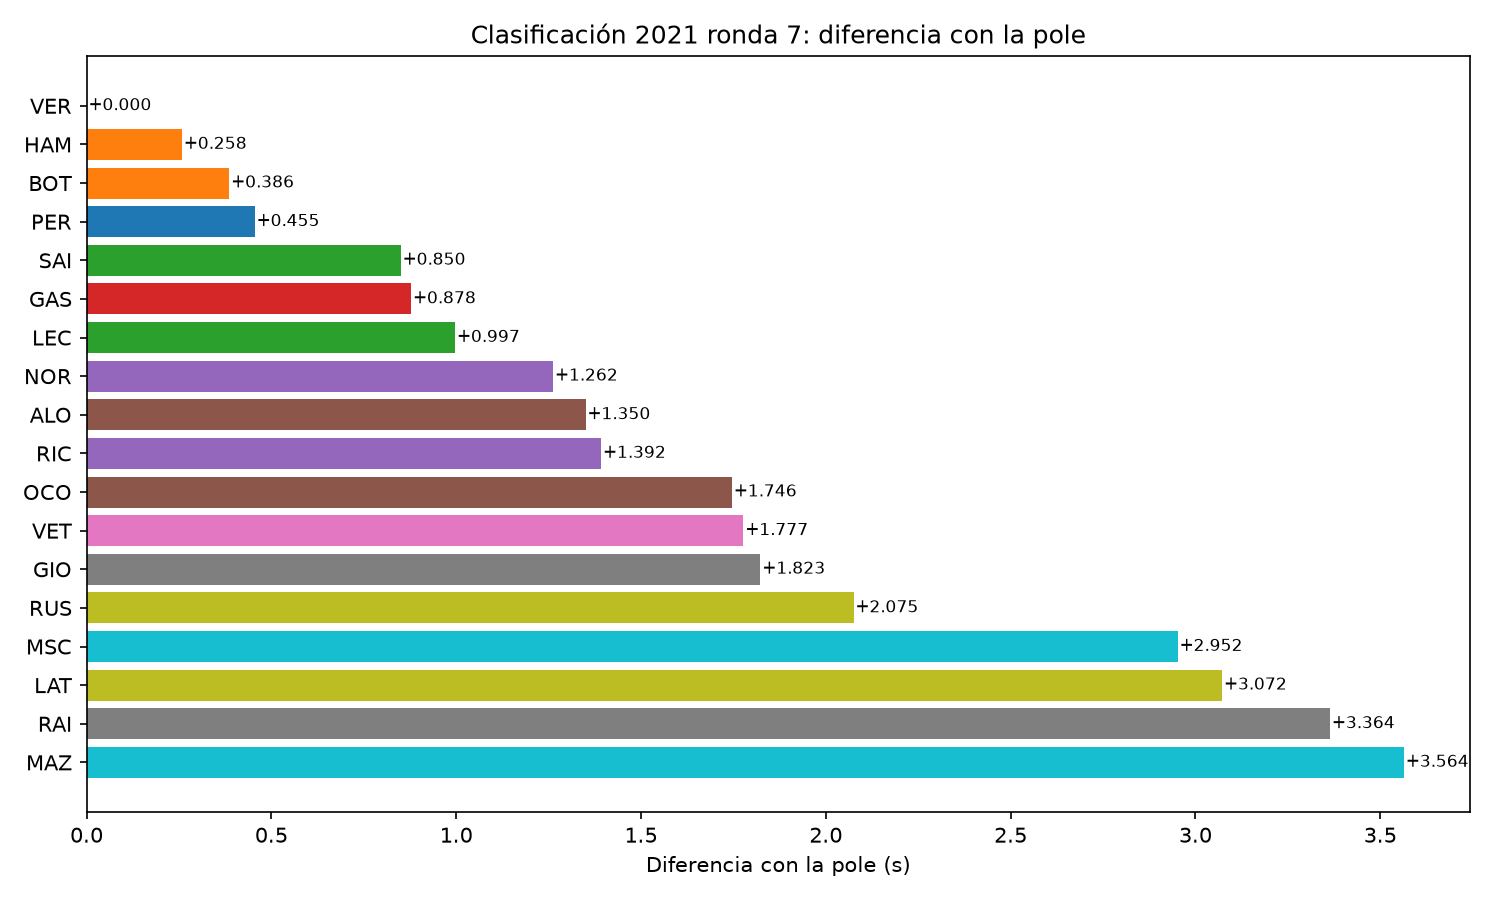
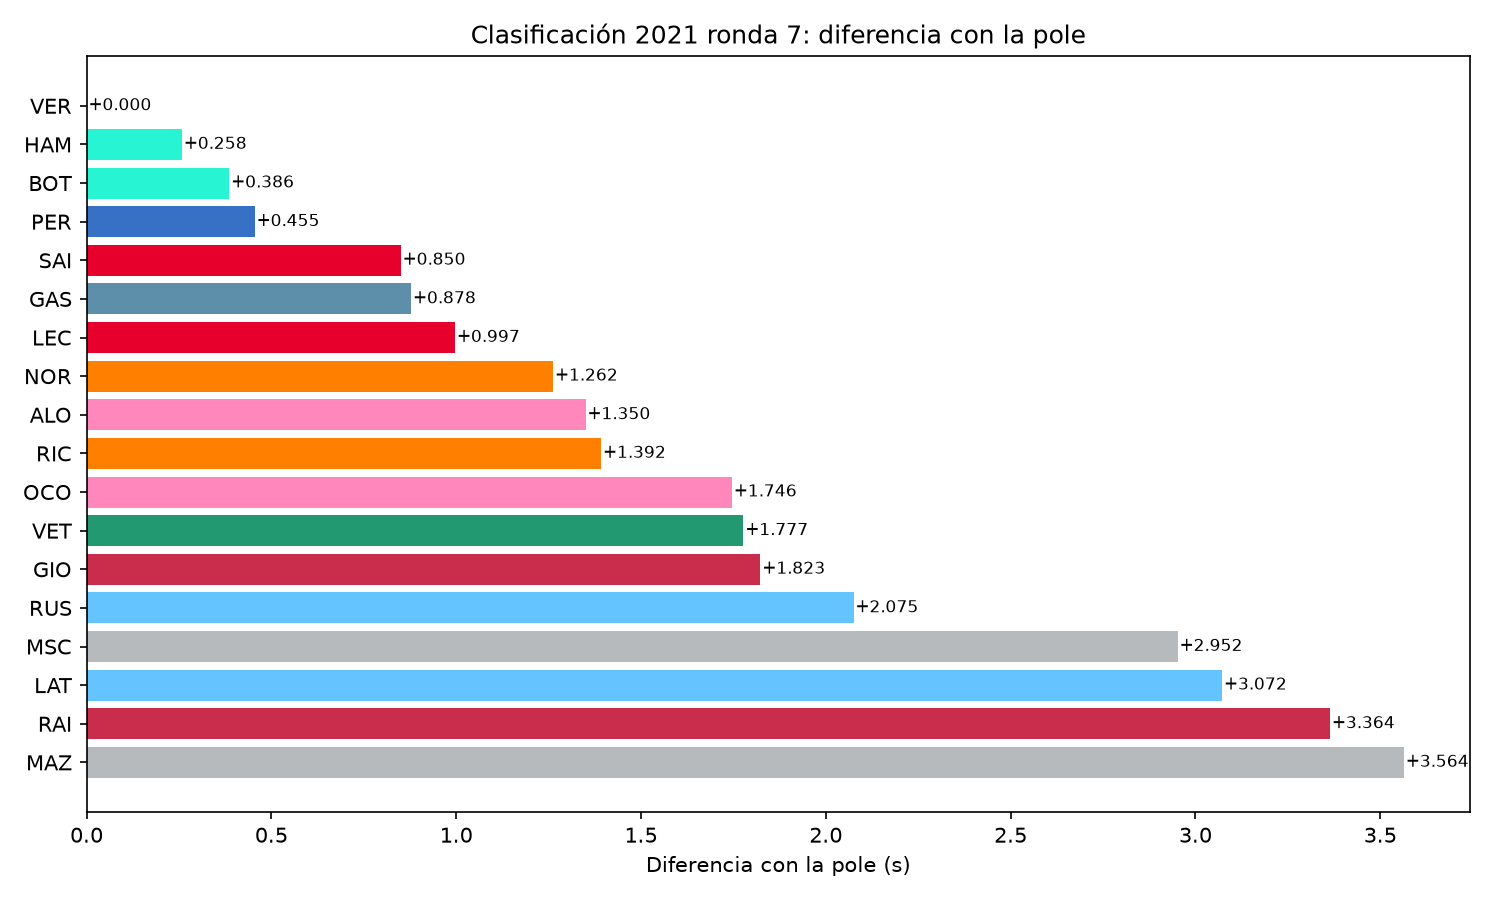
feat: estilos por piloto con colores de escudería y leyenda ordenada

Changed region(s): [[0.0307, 0.1244, 0.9507, 0.8711]]

diff --git a/src/f1analysis/styling.py b/src/f1analysis/styling.py
@@ -1,0 +1,82 @@
+"""Estilos de gráfica por piloto: color de escudería y tipo de trazo.
+
+Equivalente sin cuenta F1TV de fastf1.plotting.get_driver_style y
+fastf1.plotting.add_sorted_driver_legend.
+"""
+
+# Colores por constructorId (identificadores de Jolpica/Ergast).
+TEAM_COLORS = {
+    "red_bull": "#3671C6",
+    "mercedes": "#27F4D2",
+    "ferrari": "#E8002D",
+    "mclaren": "#FF8000",
+    "alpine": "#FF87BC",
+    "renault": "#FFF500",
+    "aston_martin": "#229971",
+    "racing_point": "#F596C8",
+    "alphatauri": "#5E8FAA",
+    "toro_rosso": "#469BFF",
+    "rb": "#6692FF",
+    "alfa": "#C92D4B",
+    "sauber": "#52E252",
+    "haas": "#B6BABD",
+    "williams": "#64C4FF",
+    "force_india": "#F596C8",
+}
+FALLBACK_COLOR = "#999999"
+
+# Un estilo por posición dentro del equipo: primer piloto, segundo piloto.
+# "auto" en el color se sustituye por el color de la escudería.
+DEFAULT_STYLES = [
+    {"color": "auto", "linestyle": "solid"},
+    {"color": "auto", "linestyle": "dashed"},
+]
+
+
+def team_color(constructor_id):
+    """Color de una escudería (gris si no está en la tabla)."""
+    return TEAM_COLORS.get(constructor_id, FALLBACK_COLOR)
+
+
+def driver_order_in_team(race):
+    """Índice de cada piloto dentro de su equipo (0 = primero en meta).
+
+    'race' son los resultados de carrera (data.get_race_results).
+    """
+    order = {}
+    seen = {}
+    for _, row in race.sort_values("position").iterrows():
+        team = row["constructorId"]
+        order[row["driverCode"]] = seen.get(team, 0)
+        seen[team] = seen.get(team, 0) + 1
+    return order
+
+
+def get_driver_style(driver_code, race, styles=None):
+    """Diccionario de estilo (color, linestyle...) listo para ax.plot(**style).
+
+    'styles' es una lista de diccionarios, uno por posición en el equipo.
+    Con "color": "auto" se usa el color de la escudería.
+    """
+    styles = styles or DEFAULT_STYLES
+    row = race.loc[race["driverCode"] == driver_code].iloc[0]
+    index = driver_order_in_team(race)[driver_code]
+
+    style = dict(styles[min(index, len(styles) - 1)])
+    if style.get("color") == "auto":
+        style["color"] = team_color(row["constructorId"])
+    return style
+
+
+def add_sorted_driver_legend(ax, race):
+    """Leyenda con los pilotos ordenados por posición final en la carrera."""
+    finishing = {
+        code: i
+        for i, code in enumerate(race.sort_values("position")["driverCode"])
+    }
+    handles, labels = ax.get_legend_handles_labels()
+    pairs = sorted(zip(handles, labels), key=lambda p: finishing.get(p[1], 99))
+    if pairs:
+        sorted_handles, sorted_labels = zip(*pairs)
+        return ax.legend(sorted_handles, sorted_labels)
+    return None

diff --git a/src/f1analysis/plots.py b/src/f1analysis/plots.py
@@ -3,6 +3,7 @@
 import matplotlib.pyplot as plt
 
 from .analysis import clean_race_laps
+from .styling import add_sorted_driver_legend, get_driver_style, team_color
 
 
 def plot_qualifying_delta(qualifying, title):
@@ -10,10 +11,7 @@ def plot_qualifying_delta(qualifying, title):
 
     'qualifying' debe venir de analysis.qualifying_delta().
     """
-    teams = qualifying["constructorName"].unique()
-    palette = plt.get_cmap("tab10")
-    team_color = {team: palette(i % 10) for i, team in enumerate(teams)}
-    colors = [team_color[t] for t in qualifying["constructorName"]]
+    colors = [team_color(team) for team in qualifying["constructorId"]]
 
     fig, ax = plt.subplots(figsize=(10, 6))
     ax.barh(qualifying["driverCode"], qualifying["delta"], color=colors)
@@ -28,24 +26,23 @@ def plot_qualifying_delta(qualifying, title):
     return fig
 
 
-def plot_race_pace(laps, driver_codes, title):
-    """Líneas con el tiempo de vuelta de los pilotos indicados."""
+def plot_race_pace(laps, race, driver_codes, title, styles=None):
+    """Líneas con el tiempo de vuelta de los pilotos indicados.
+
+    'race' son los resultados de carrera (para colores y orden de leyenda).
+    'styles' permite estilos personalizados (ver styling.DEFAULT_STYLES).
+    """
     fig, ax = plt.subplots(figsize=(11, 6))
 
     for code in driver_codes:
         driver_laps = laps[laps["driverCode"] == code].sort_values("lap")
         driver_laps = clean_race_laps(driver_laps)
-        ax.plot(
-            driver_laps["lap"],
-            driver_laps["seconds"],
-            marker="o",
-            markersize=3,
-            label=code,
-        )
+        style = get_driver_style(code, race, styles)
+        ax.plot(driver_laps["lap"], driver_laps["seconds"], label=code, **style)
 
     ax.set_xlabel("Vuelta")
     ax.set_ylabel("Tiempo de vuelta (s)")
     ax.set_title(title)
-    ax.legend()
+    add_sorted_driver_legend(ax, race)
     fig.tight_layout()
     return fig

diff --git a/src/main.py b/src/main.py
@@ -61,7 +61,9 @@ def main():
     print(best_lap_per_driver(laps))
 
     top = race.sort_values("position")["driverCode"].head(args.top).tolist()
-    fig_p = plot_race_pace(laps, top, f"Ritmo de carrera {race_name} (top {args.top})")
+    fig_p = plot_race_pace(
+        laps, race, top, f"Ritmo de carrera {race_name} (top {args.top})"
+    )
     path_p = OUTPUT_DIR / f"race_pace_{season}_r{round_}.png"
     fig_p.savefig(path_p, dpi=150)
 
